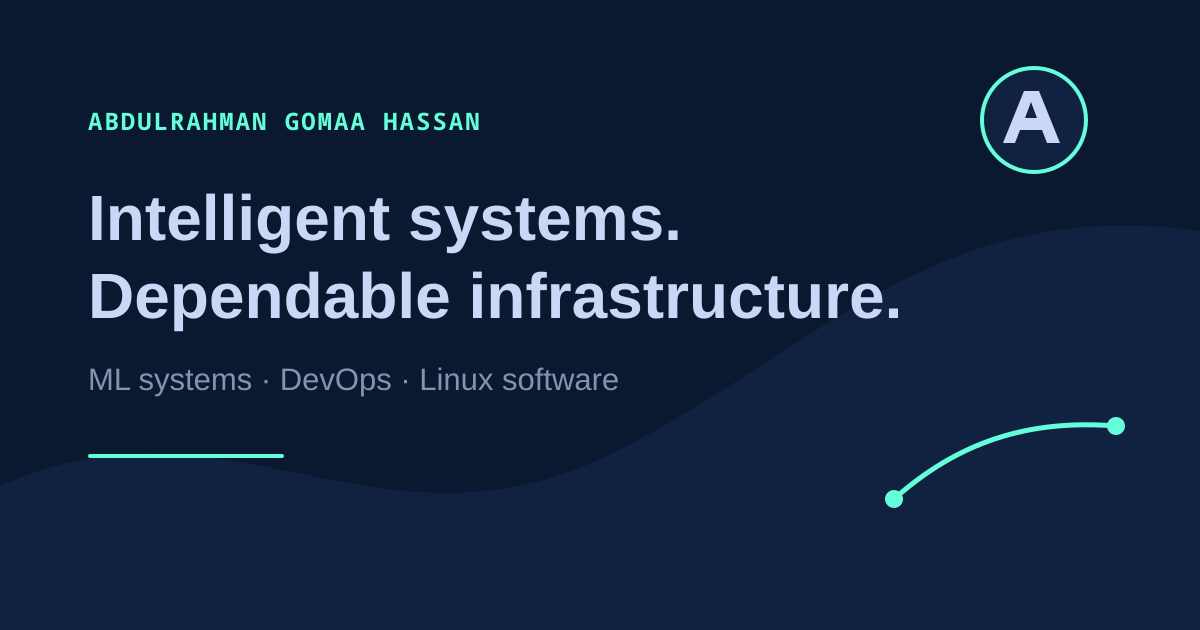
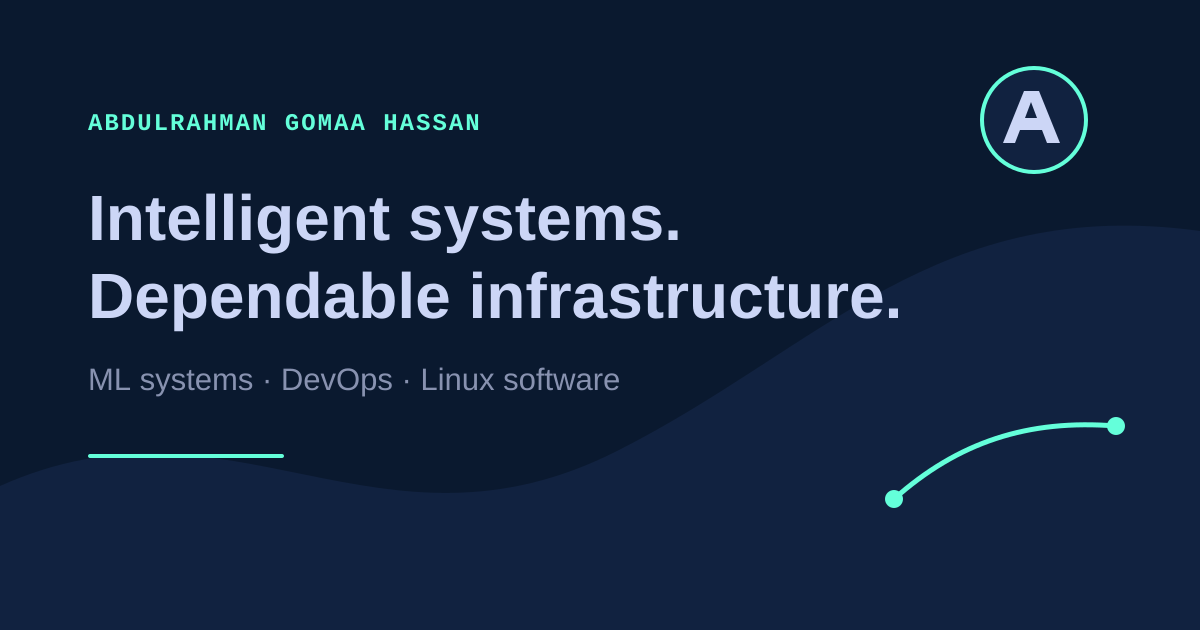
fix: make social asset rendering deterministic

Changed region(s): [[0.2467, 0.573, 0.5242, 0.6333], [0.0617, 0.181, 0.4008, 0.2111], [0.1233, 0.573, 0.2158, 0.6333]]

diff --git a/tests/unit/visual-assets.test.ts b/tests/unit/visual-assets.test.ts
@@ -47,6 +47,7 @@ describe('code-native brand assets', () => {
     expect(colors.every((color) => approvedPalette.includes(color))).toBe(true);
     expect(new Set(colors)).toEqual(new Set(approvedPalette));
     expect(socialCard).not.toMatch(/grid|pattern/iu);
+    expect(socialCard).not.toMatch(/<text\b/iu);
   });
 
   it('keeps the WebP social card pixel-identical to the SVG source', async () => {
